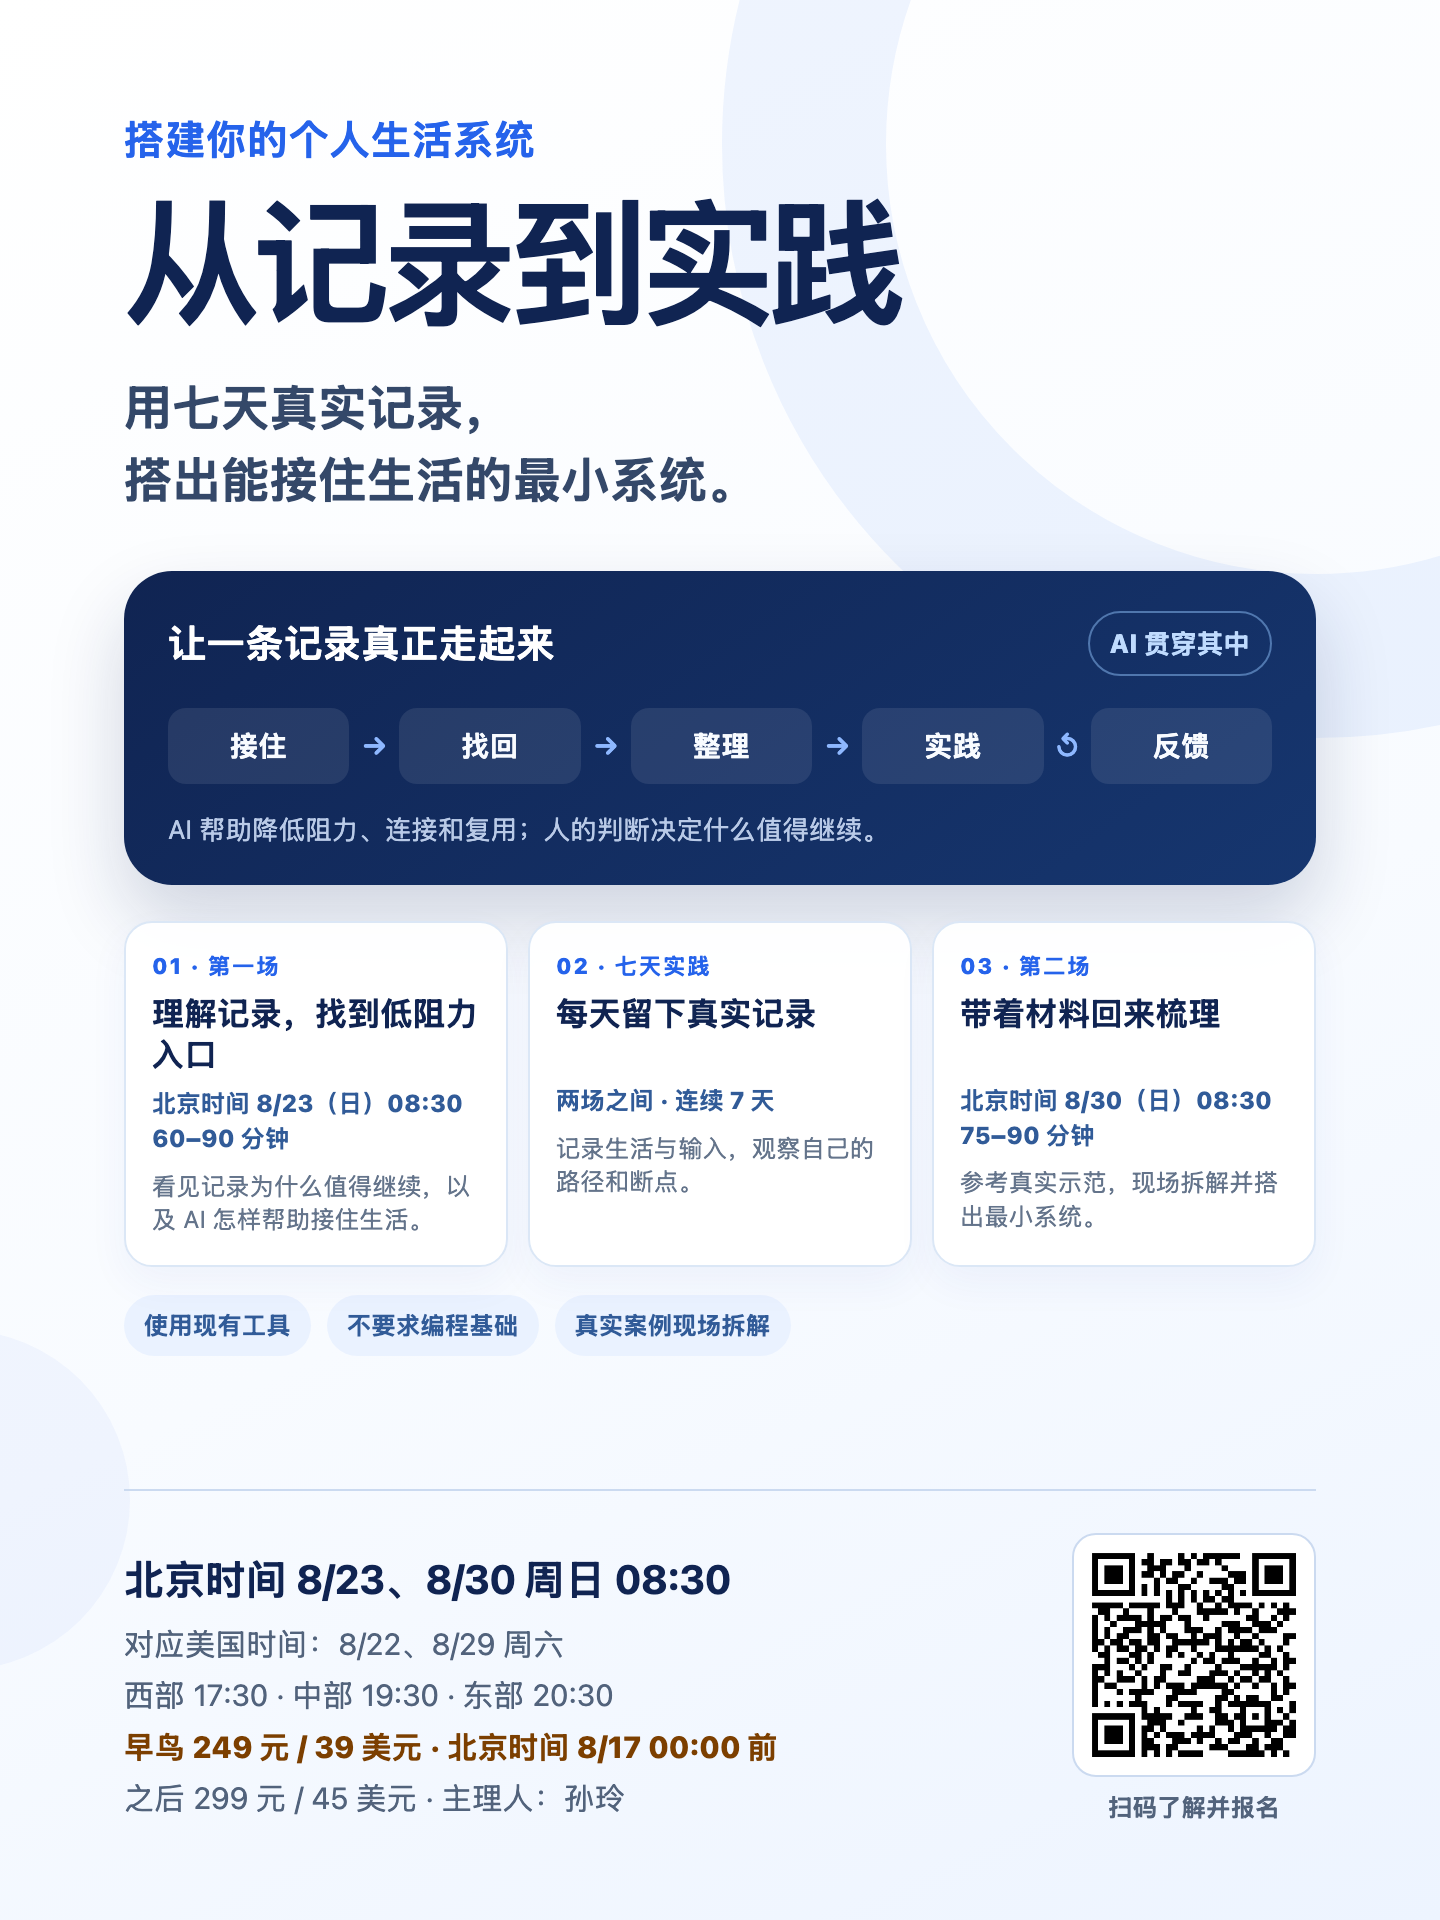
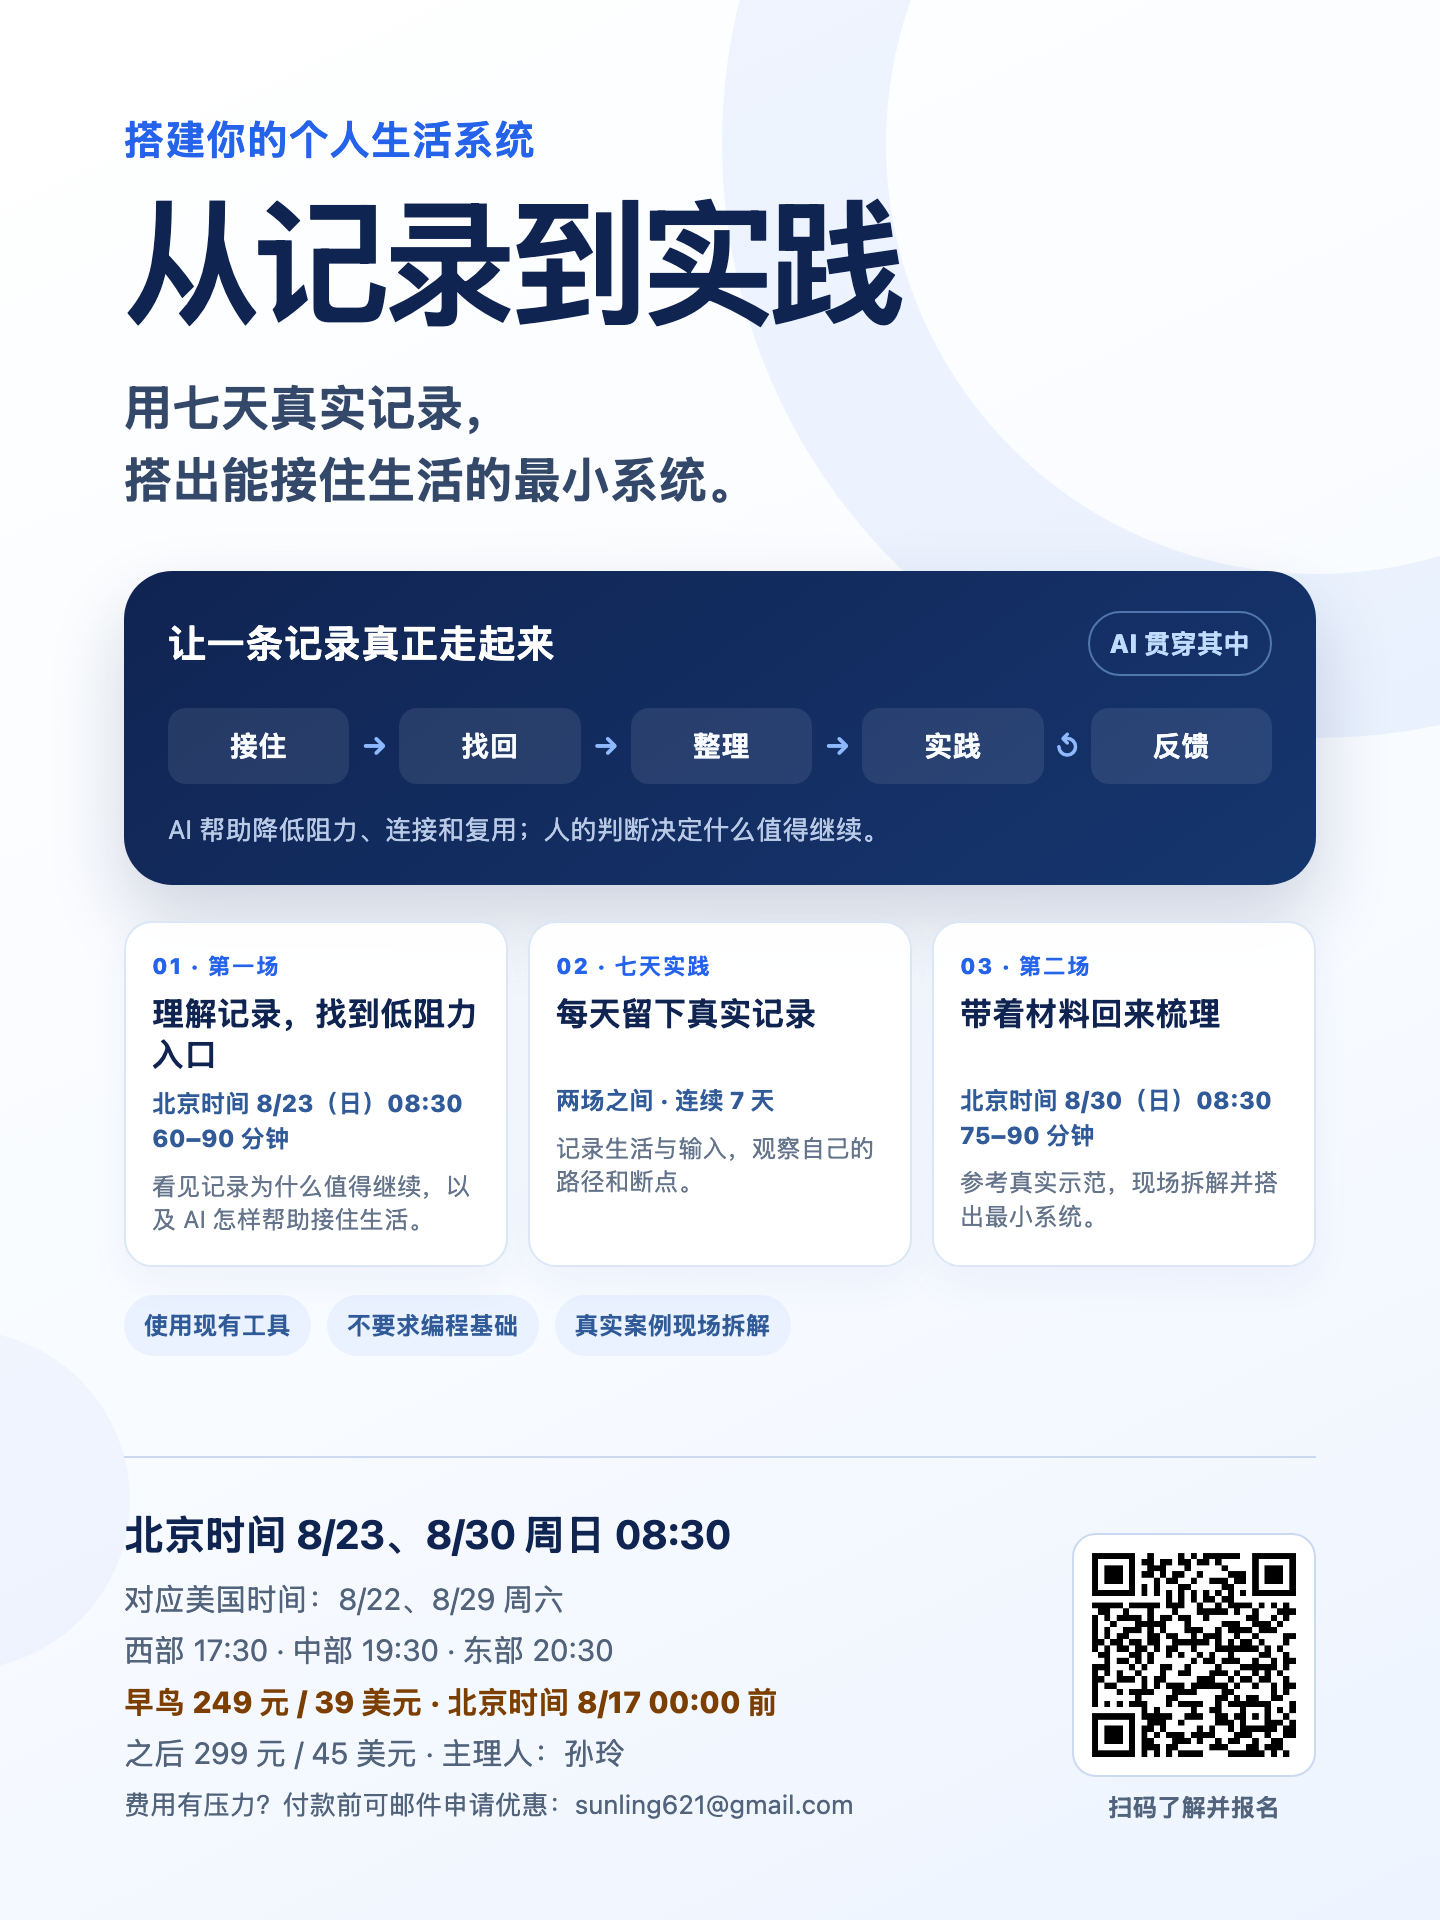
update 2nd workshop sign up page

Changed region(s): [[0.0938, 0.7812, 0.5938, 0.9688]]

diff --git a/from-recording-to-practice-workshop-poster.html b/from-recording-to-practice-workshop-poster.html
@@ -37,6 +37,7 @@
     .meta { color:#52637c; font-size:15px; line-height:1.72; }
     .meta strong { display:block; margin-bottom:2px; color:var(--navy); font-size:20px; }
     .meta .price { color:#7c3f00; font-weight:800; }
+    .meta .discount { display:block; margin-top:3px; color:#52637c; font-size:13px; line-height:1.5; }
     .qr { flex:0 0 auto; text-align:center; color:#52637c; font-size:12px; font-weight:800; }
     .qr img { display:block; width:122px; height:122px; margin-bottom:7px; padding:7px; border:1px solid #cbdaf0; border-radius:12px; background:#fff; }
     .poster-actions { display:flex; justify-content:center; width:720px; }
@@ -64,7 +65,7 @@
       <div class="promise"><span>使用现有工具</span><span>不要求编程基础</span><span>真实案例现场拆解</span></div>
     </div>
     <div class="bottom">
-      <div class="meta"><strong>北京时间 8/23、8/30 周日 08:30</strong>对应美国时间：8/22、8/29 周六<br />西部 17:30 · 中部 19:30 · 东部 20:30<br /><span class="price">早鸟 249 元 / 39 美元 · 北京时间 8/17 00:00 前</span><br />之后 299 元 / 45 美元 · 主理人：孙玲</div>
+      <div class="meta"><strong>北京时间 8/23、8/30 周日 08:30</strong>对应美国时间：8/22、8/29 周六<br />西部 17:30 · 中部 19:30 · 东部 20:30<br /><span class="price">早鸟 249 元 / 39 美元 · 北京时间 8/17 00:00 前</span><br />之后 299 元 / 45 美元 · 主理人：孙玲<span class="discount">费用有压力？付款前可邮件申请优惠：sunling621@gmail.com</span></div>
       <div class="qr"><img src="assets/from-recording-to-practice-workshop-qr.png" alt="从记录到实践工作坊报名页面二维码" />扫码了解并报名</div>
     </div>
   </main>

diff --git a/from-recording-to-practice-workshop.html b/from-recording-to-practice-workshop.html
@@ -216,7 +216,7 @@
               <p>支付 <strong data-usd-price>39 美元</strong></p>
             </article>
           </div>
-          <p class="checkout-discount">如果费用会带来压力，可以在付款前发邮件至 <a href="mailto:sunling621@gmail.com?subject=%E5%B7%A5%E4%BD%9C%E5%9D%8A%E4%BC%98%E6%83%A0%E7%94%B3%E8%AF%B7">sunling621@gmail.com</a> 申请优惠，不需要详细解释。</p>
+          <p class="checkout-discount">如果费用会带来压力，可以在付款前发个简单的邮件至 <a href="mailto:sunling621@gmail.com?subject=%E5%B7%A5%E4%BD%9C%E5%9D%8A%E4%BC%98%E6%83%A0%E7%94%B3%E8%AF%B7">sunling621@gmail.com</a> 申请优惠。</p>
         </div>
         <input type="hidden" name="stage" value="从记录到实践｜2026-08-22" />
         <label class="honeypot" aria-hidden="true">网站<input name="website" tabindex="-1" autocomplete="off" /></label>
@@ -253,7 +253,7 @@
     const isEarlyBird = new Date() < earlyBirdDeadline;
     const price = isEarlyBird
       ? { label: "早鸟价", rmb: "249 元", usd: "39 美元", note: "北京时间 8 月 17 日 00:00 前；之后为 299 元 / 45 美元。" }
-      : { label: "费用", rmb: "299 元", usd: "45 美元", note: "早鸟优惠已结束。" };
+      : { label: "费用", rmb: "299 元", usd: "45 美元", note: "" };
     document.querySelectorAll("[data-price-label]").forEach((element) => { element.textContent = price.label; });
     document.querySelectorAll("[data-rmb-price]").forEach((element) => { element.textContent = price.rmb; });
     document.querySelectorAll("[data-usd-price]").forEach((element) => { element.textContent = price.usd; });
